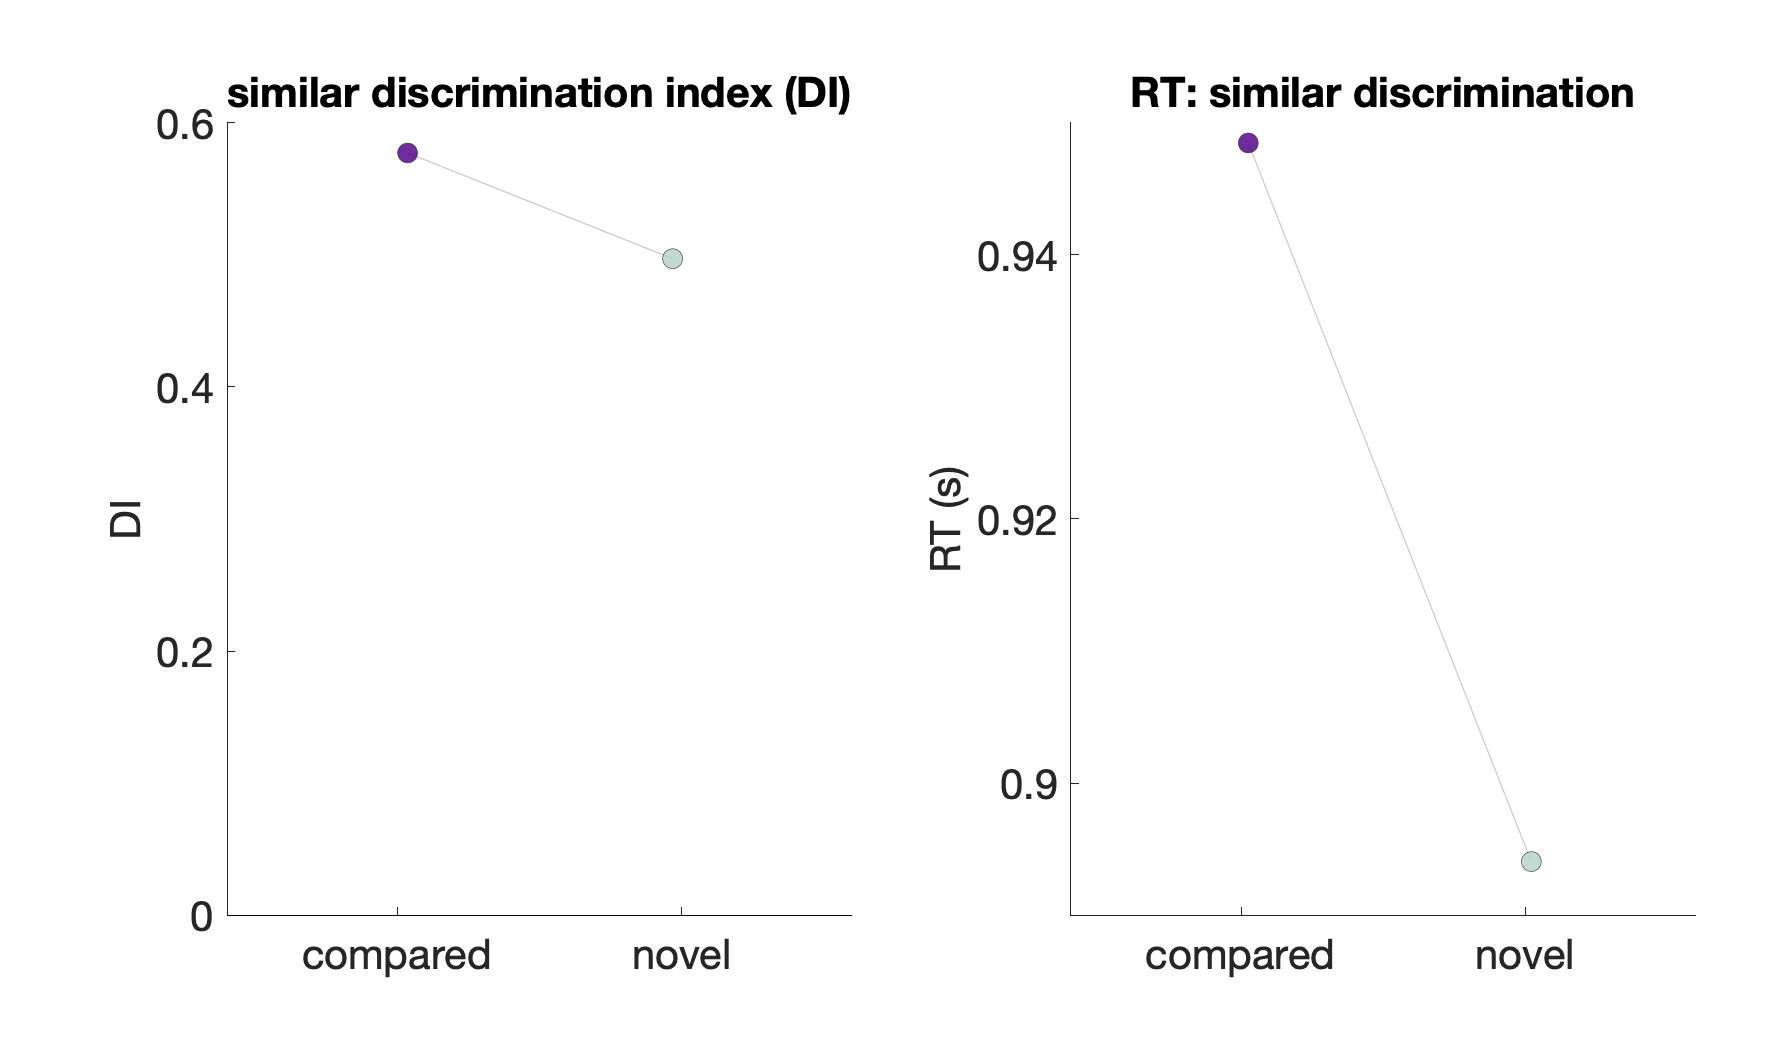
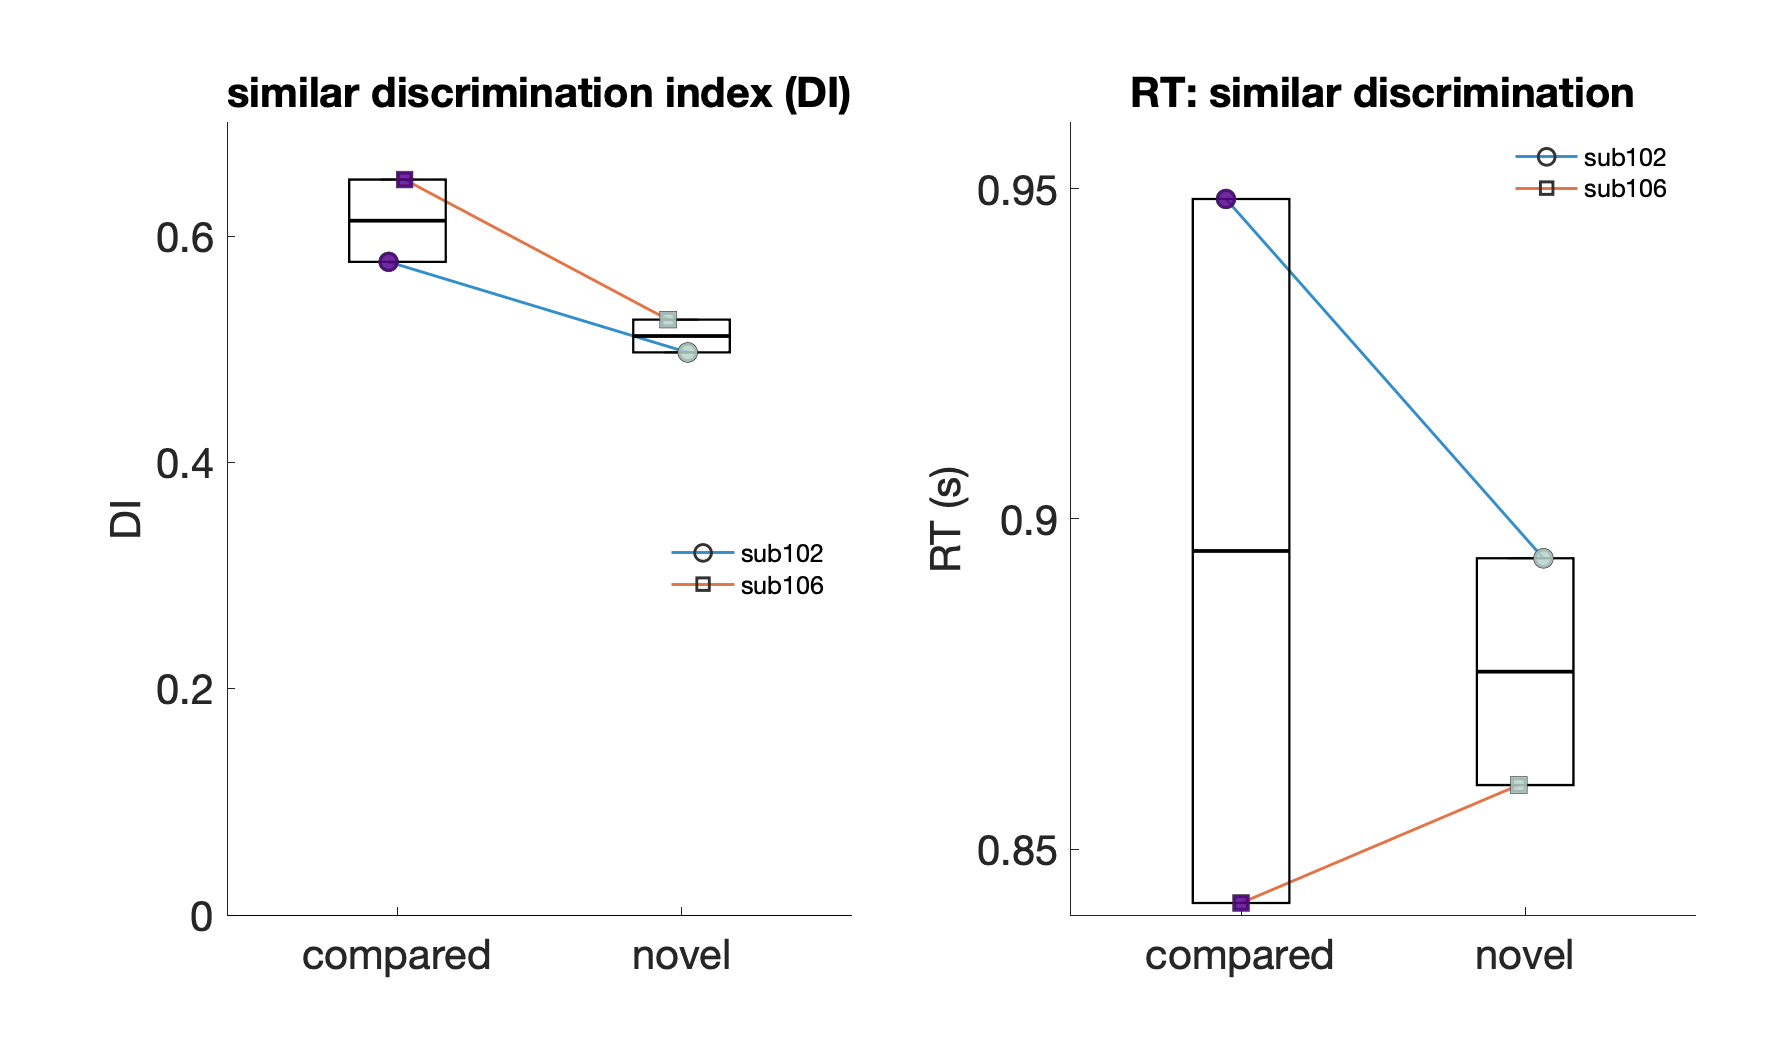
105 sequence

diff --git a/NeurWEM_CN/scripts/S_group_mstback.m b/NeurWEM_CN/scripts/S_group_mstback.m
@@ -147,10 +147,10 @@ clbl = {'resp. same','resp. similar','resp. new'};       % response  -> confusio
 [f, L] = panel_grid(GEO, [3 2]);   set(f,'Name','Figure 1: 1-back');
 mk_axes(f, L(1,:));
 paired_plot(one_acc, {'same','similar','new'}, {c_same,c_sim,c_new}, ...
-    'accuracy', '1-back accuracy', min_n_stat, {[1 2],[2 3],[1 3]}, FS); nice_yticks(4);
+    'accuracy', '1-back accuracy', min_n_stat, {[1 2],[2 3],[1 3]}, FS, subs); nice_yticks(4);
 mk_axes(f, L(2,:));
 paired_plot(one_rt, {'same','similar'}, {c_same,c_sim}, ...
-    'RT (s)', '1-back RT (correct)', min_n_stat, {[1 2]}, FS);
+    'RT (s)', '1-back RT (correct)', min_n_stat, {[1 2]}, FS, subs);
 nice_yticks(4);
 save_fig(f, fig_dir, 'group_mstback_fig1_1back');
 
@@ -165,11 +165,11 @@ cnd2 = {'compared','novel'}; col2 = {c_comp,c_nov}; pr2 = {[1 2]};
 [f, L] = panel_grid(GEO, [2 2]);   set(f,'Name','Figure 3: 2-back similar discrimination');
 mk_axes(f, L(1,:));
 paired_plot(di, cnd2, col2, 'DI', ...
-    'similar discrimination index (DI)', min_n_stat, pr2, FS);
+    'similar discrimination index (DI)', min_n_stat, pr2, FS, subs);
 yline(0,'k-'); nice_yticks(4);
 mk_axes(f, L(2,:));
 paired_plot(rt_lure, cnd2, col2, 'RT (s)', ...
-    'RT: similar discrimination', min_n_stat, pr2, FS);
+    'RT: similar discrimination', min_n_stat, pr2, FS, subs);
 nice_yticks(4);
 save_fig(f, fig_dir, 'group_mstback_fig3_2back_similar');
 
@@ -177,11 +177,11 @@ save_fig(f, fig_dir, 'group_mstback_fig3_2back_similar');
 [f, L] = panel_grid(GEO, [2 2]);   set(f,'Name','Figure 3b: 2-back same detection');
 mk_axes(f, L(1,:));
 paired_plot(dpr, cnd2, col2, 'd''', ...
-    'same detection (d'')', min_n_stat, pr2, FS);
+    'same detection (d'')', min_n_stat, pr2, FS, subs);
 yline(0,'k-'); nice_yticks(4);
 mk_axes(f, L(2,:));
 paired_plot(rt_targ, cnd2, col2, 'RT (s)', ...
-    'RT: same detection', min_n_stat, pr2, FS);
+    'RT: same detection', min_n_stat, pr2, FS, subs);
 nice_yticks(4);
 save_fig(f, fig_dir, 'group_mstback_fig3b_2back_same');
 
@@ -199,19 +199,15 @@ save_fig(f, fig_dir, 'group_mstback_fig4_2back_confusion');
 mst_rlbl = {'exp. old','exp. lure','exp. new'};
 mst_clbl = {'resp. old','resp. similar','resp. new'};
 if nMST >= 1
-    % FIGURE 5 -- MST indices: discrimination (2), response rates (3), RT (2)
-    [f, L] = panel_grid(GEO, [2 3 2]);   set(f,'Name','Figure 5: MST');
+    % FIGURE 5 -- MST indices: discrimination (2), RT (2)
+    [f, L] = panel_grid(GEO, [2 2]);   set(f,'Name','Figure 5: MST');
     mk_axes(f, L(1,:));
-    paired_plot([mst_ldi mst_rec], {'LDI','recognition'}, {c_sim,c_same}, 'index', ...
-        'MST discrimination', min_n_stat, {[1 2]}, FS);
+    paired_plot([mst_ldi(has_mst) mst_rec(has_mst)], {'LDI','recognition'}, {c_sim,c_same}, 'index', ...
+        'MST discrimination', min_n_stat, {[1 2]}, FS, subs(has_mst));
     yline(0,'k-'); nice_yticks(4);
     mk_axes(f, L(2,:));
-    paired_plot(mst_rate, {'hit (old)','lure\rightarrowsim','CR (new)'}, {c_same,c_sim,c_new}, ...
-        'proportion', 'MST response rates', min_n_stat, {[1 2],[2 3],[1 3]}, FS);
-    ylim([0 1.05]); nice_yticks(4);
-    mk_axes(f, L(3,:));
-    paired_plot(mst_rt, {'old','lure'}, {c_same,c_sim}, 'RT (s)', ...
-        'MST RT (correct)', min_n_stat, {[1 2]}, FS);
+    paired_plot(mst_rt(has_mst,:), {'old','lure'}, {c_same,c_sim}, 'RT (s)', ...
+        'MST RT (correct)', min_n_stat, {[1 2]}, FS, subs(has_mst));
     nice_yticks(4);
     save_fig(f, fig_dir, 'group_mstback_fig5_mst');
 
@@ -348,21 +344,30 @@ function paired_line(lbl, a, b, min_n)
         lbl, mean(a), mean(b), mean(b-a), p, stars(p));
 end
 
-function paired_plot(M, lvllbl, cols, ylbl, ttl, min_n, pairs, FS)
+function paired_plot(M, lvllbl, cols, ylbl, ttl, min_n, pairs, FS, subj)
 % M: [nS x nL] metric per subject per level. Paired-plot style.
+% subj: [nS x 1] subject IDs -> each subject gets its own line colour + marker
+% shape, listed in a legend.
     if nargin < 8 || isempty(FS), FS = struct('tick',16,'lab',18,'ttl',18,'anno',13); end
     [nS, nL] = size(M);
+    if nargin < 9 || isempty(subj), subj = 1:nS; end
     if nargin < 7 || isempty(pairs)
         pairs = arrayfun(@(k) [k k+1], 1:nL-1, 'UniformOutput', false);
     end
     hold on; jw = 0.07; bw = 0.34;
     dot_area = 90;   % per-subject dot size (scatter marker area, points^2)
     X = (1:nL) + (rand(nS,nL)-0.5)*2*jw;         % jittered x per subject/level
+    s_col = lines(nS);                           % per-subject line colour
+    mks = {'o','s','d','^','v','p','h','>','<'};
+    s_mk = mks(mod(0:nS-1, numel(mks)) + 1);     % per-subject marker shape
 
-    % gray lines connecting each subject across levels
+    % coloured line connecting each subject across levels (legend handles)
+    hs = gobjects(nS,1);
     for s = 1:nS
         y = M(s,:);
-        plot(X(s,:), y, '-', 'Color', [0.55 0.55 0.55 0.45], 'LineWidth', 0.6);
+        hs(s) = plot(X(s,:), y, '-', 'Color', [s_col(s,:) 0.8], 'LineWidth', 1.4, ...
+            'Marker', s_mk{s}, 'MarkerSize', 8, 'MarkerEdgeColor', [.2 .2 .2], ...
+            'MarkerFaceColor', 'none');
     end
     % box + whiskers per level, then coloured subject dots
     for L = 1:nL
@@ -378,8 +383,10 @@ function paired_plot(M, lvllbl, cols, ylbl, ttl, min_n, pairs, FS)
                 'EdgeColor','k','LineWidth',1.1,'FaceColor','none');
             plot(L+[-bw/2 bw/2],[q(2) q(2)],'k-','LineWidth',1.8);
         end
-        scatter(X(:,L), M(:,L), dot_area, cols{L}, 'filled', 'MarkerFaceAlpha',0.85, ...
-            'MarkerEdgeColor',[.2 .2 .2], 'LineWidth',0.3);
+        for s = 1:nS
+            scatter(X(s,L), M(s,L), dot_area, cols{L}, s_mk{s}, 'filled', ...
+                'MarkerFaceAlpha',0.85, 'MarkerEdgeColor',[.2 .2 .2], 'LineWidth',0.3);
+        end
     end
 
     all_v = M(~isnan(M));
@@ -419,6 +426,8 @@ function paired_plot(M, lvllbl, cols, ylbl, ttl, min_n, pairs, FS)
     if nS >= min_n && k > 0
         ylim([min(all_v)-0.06*yr, base + k*step + 0.05*yr]);
     end
+    legend(hs, compose('sub%03d', subj(:)), 'Location','best', 'Box','off', ...
+        'FontSize', max(FS.anno-8, 10), 'Interpreter','none', 'AutoUpdate','off');
     box off; hold off;
 end
 
